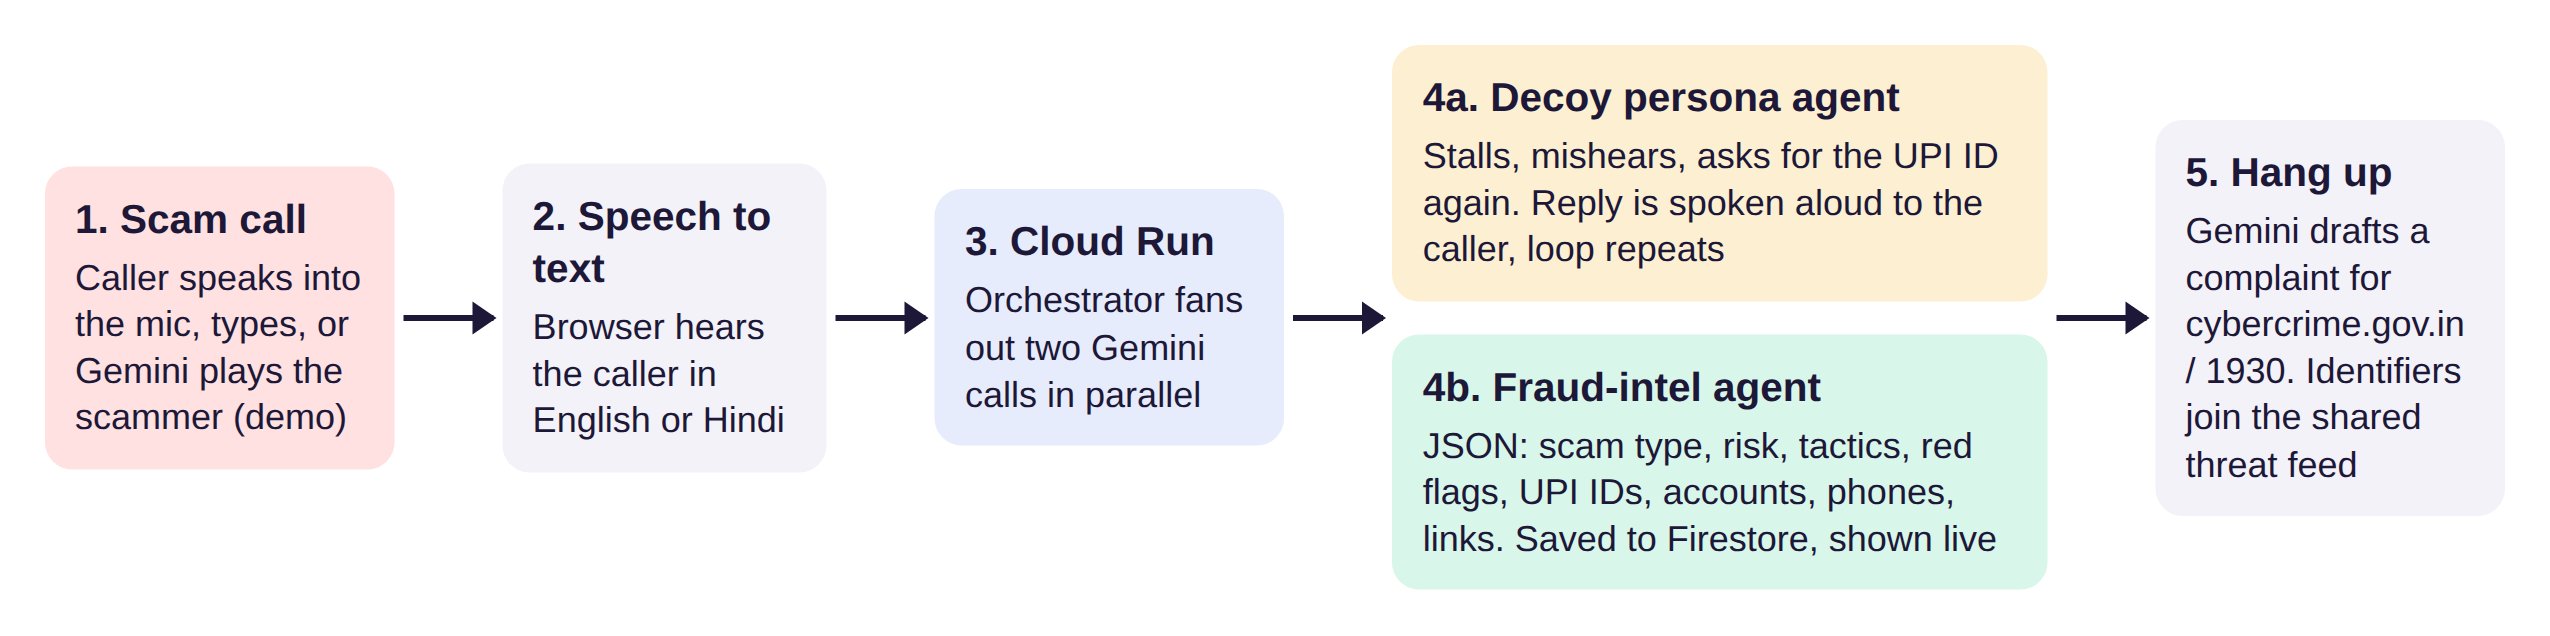
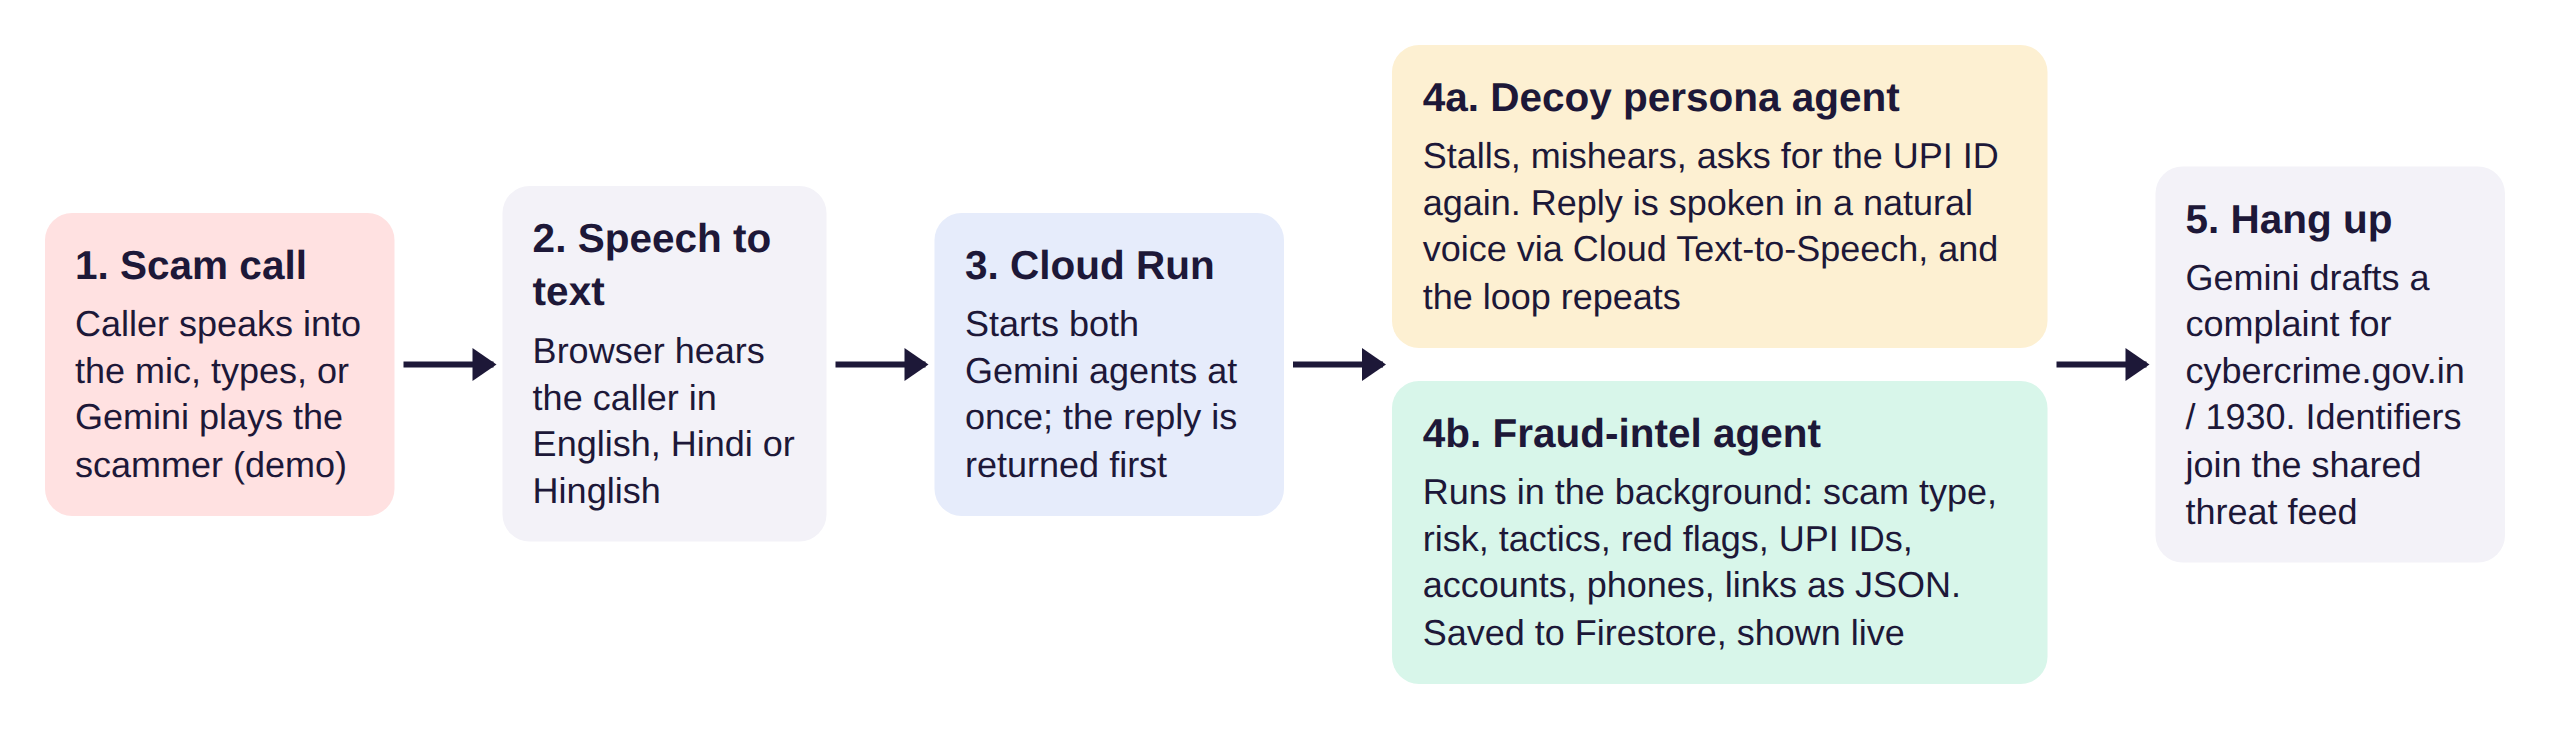
Update README for Vertex AI, natural voices and live demo

diff --git a/README.md b/README.md
@@ -4,109 +4,182 @@
 
 Built for the Google Cloud AI Builder Cup, theme: *BFSI: Intelligent Risk, Fraud & Financial Experiences*.
 
-Phone scams like "digital arrest", fake KYC updates and task-job frauds cost Indian families crores every month, and they
-work because scammers can call thousands of people cheaply. ScamBait flips the economics: every minute a scammer spends
-talking to an AI decoy is a minute they are not talking to a real victim, and everything they reveal (UPI IDs, mule
-accounts, phone numbers, phishing links, scripts) is captured as structured evidence and shared in a public threat feed.
+**Live demo:** https://scambait-deluludevelopers.web.app
 
-## What it does
+![ScamBait live call screen](docs/ui-call.png)
 
-- **AI decoy persona (Gemini).** Kamala Aunty or Mr. Verma answer the call in English, Hindi or Hinglish. They stall,
-  mishear, look for their glasses, and steer the scammer into repeating payment details, all while never revealing
-  anything real.
-- **Live fraud intelligence (Gemini structured output).** On every turn a second Gemini call analyses the caller's words
-  in parallel and returns a typed JSON object: scam type, risk score, impersonated organisation, manipulation tactics,
-  red-flag quotes, and every identifier revealed. A deterministic regex layer backs it up so no UPI ID is missed.
-- **AI vs AI demo mode.** A third Gemini agent plays the scammer from a scripted scenario, so anyone (including judges)
-  can watch a full call with no phone or microphone.
-- **Voice in, voice out.** Browser speech recognition hears the scammer; speech synthesis gives the decoy a voice.
+## The problem
+
+Phone scams such as "digital arrest", fake KYC updates, electricity-disconnection threats and task-based job offers
+target people who panic under pressure, very often the elderly. Scam call centres win on volume: calls are cheap and
+they only need one victim to pay. Existing defences such as caller-ID apps, spam filters and bank SMS alerts are
+passive. They warn or block, and the scammer simply dials the next number.
+
+## Our solution
+
+ScamBait flips the economics. Every minute a scammer spends talking to an AI decoy is a minute they are not talking to
+a real victim, and everything they reveal (UPI IDs, mule accounts, phone numbers, phishing links, names and scripts)
+is captured as structured evidence and shared in a threat feed.
+
+## Features
+
+- **AI decoy personas (Gemini).** Kamala Aunty, a 74-year-old retired teacher, or Mr. Verma, a meticulous retired
+  clerk, answer the call in English, Hindi or Hinglish. They stall, mishear, hunt for their glasses and keep asking
+  the caller to repeat payment details, while never revealing anything real.
+- **Natural voices (Cloud Text-to-Speech).** Chirp 3 HD voices give the decoy and the caller human-sounding speech in
+  Indian English and Hindi, with automatic fallback to Neural2 and then the browser voice.
+- **Live fraud intelligence (Gemini structured output).** On every turn a separate Gemini agent analyses the caller's
+  words against a strict JSON schema: scam type, risk score, impersonated organisation, manipulation tactics,
+  red-flag quotes and every identifier revealed. A deterministic regex layer backs it up so no UPI ID is missed.
+- **AI vs AI demo mode.** A Gemini scammer agent rewrites realistic scam scripts (digital arrest, bank KYC,
+  electricity disconnection, job/task scam) into natural lines that react to what the decoy says, so anyone can watch
+  a full call with no phone or microphone. A refusal guard falls back to the scripted line if the model declines.
+- **Three ways to play the scammer.** Let Gemini do it, speak into the microphone (Web Speech API), or type.
 - **One-click complaint.** When the call ends, Gemini drafts a complaint ready for cybercrime.gov.in or the 1930 helpline.
-- **Shared threat feed (Firestore).** Identifiers from every call are de-duplicated and counted across all users, with
-  stats on scam types, scammer time wasted and AI latency.
+- **Shared threat feed (Firestore).** Identifiers from every call are de-duplicated and counted across all users,
+  alongside calls handled, scammer time wasted, scam-type mix and average AI response time.
+
+![Threat feed](docs/ui-feed.png)
+
+## How it works
+
+![Process flow](docs/flow.png)
+
+1. The caller's line arrives as text (Gemini scammer agent, microphone speech recognition, or typing).
+2. Cloud Run immediately starts two Gemini agents in parallel: the **decoy persona** writes the reply and the
+   **fraud-intel analyst** extracts structured evidence.
+3. The decoy reply is returned as soon as it is ready and spoken with Cloud Text-to-Speech. The analysis is collected
+   separately and fills the evidence panel a moment later, so analysis never delays the conversation.
+4. When the call ends, any pending analysis is awaited, Gemini writes the complaint, and every identifier is upserted
+   into the shared threat feed.
 
 ## Architecture
 
+![Architecture](docs/arch.png)
+
+| Component | Role |
+|---|---|
+| **Gemini 3.8 Flash on Vertex AI** | Four agents via the Google Gen AI SDK: decoy persona, fraud-intel analyst (schema-constrained JSON), scammer simulator, complaint writer |
+| **Cloud Run** | Node.js + Express orchestrator: sessions, parallel agent calls, low thinking level for speed, timeouts and 429 retries, refusal guard, regex safety net, voice proxy, latency tracking |
+| **Cloud Text-to-Speech** | Chirp 3 HD voices per persona (configurable in `prompts.js`), Neural2 fallback |
+| **Firestore** | `sessions` (transcript, intel, complaint), `indicators` (de-duplicated scammer identifiers with sighting counts), `stats` (aggregates via atomic increments) |
+| **Firebase Hosting** | Serves the web app on a global CDN and rewrites `/api/**` to Cloud Run |
+| **Web Speech API** | Speech recognition in the browser (en-IN, hi-IN) for the microphone mode |
+
+Firestore security rules deny all browser access; every read and write goes through the backend. Gemini is called
+with the Cloud Run service account through Vertex AI, so no API key is stored in the app.
+
+## Project structure
+
 ```
-Browser (Firebase Hosting)
-  ├─ static UI, Web Speech API (speech-to-text + text-to-speech)
-  └─ /api/**  ──rewrite──►  Cloud Run service "scambait" (Node.js + Express)
-                              ├─ Gemini (via @google/genai)
-                              │    ├─ Decoy persona agent      (conversation)
-                              │    ├─ Intel analyst agent      (JSON schema output, runs in parallel)
-                              │    ├─ Scammer simulator agent  (demo mode)
-                              │    └─ Complaint writer         (end of call)
-                              └─ Firestore
-                                   ├─ sessions/{id}    transcript, latest intel, report
-                                   ├─ indicators/{id}  de-duplicated scammer identifiers + counts
-                                   └─ stats/global     calls, seconds wasted, scam types, latency
+server.js            Express API, Gemini agents, Text-to-Speech proxy
+prompts.js           Personas, voices, scam scripts and all Gemini prompts
+store.js             Firestore persistence (in-memory fallback for local runs)
+public/              index.html, app.js, style.css (no build step)
+firebase.json        Hosting config and /api rewrite to Cloud Run
+firestore.rules      Locks Firestore to the backend
+Dockerfile           Container for Cloud Run
+docs/                Diagrams and screenshots
 ```
 
 ## Run locally
 
+Requires Node.js 20+ and Chrome or Edge.
+
 ```bash
 npm install
-cp .env.example .env            # add your Gemini API key from https://aistudio.google.com/apikey
-export $(cat .env | xargs)
-USE_MEMORY_STORE=1 npm start    # no Firestore needed locally
-# open http://localhost:8080 in Chrome
 ```
 
-## Deploy (about 15 minutes)
+Create a `.env` file. Either use a Gemini API key from AI Studio:
 
-Prerequisites: `gcloud` and `firebase` CLIs installed, a Google Cloud project with billing, and a Gemini API key.
+```
+GEMINI_API_KEY=your-key
+GEMINI_MODEL=gemini-3.8-flash
+USE_MEMORY_STORE=1
+```
+
+or use Vertex AI with your own Google Cloud login (run `gcloud auth application-default login` first):
+
+```
+GOOGLE_CLOUD_PROJECT=your-project-id
+GOOGLE_CLOUD_LOCATION=global
+GEMINI_MODEL=gemini-3.8-flash
+USE_MEMORY_STORE=1
+```
+
+Then start the server and open http://localhost:8080:
+
+```bash
+node --env-file=.env server.js
+```
+
+`USE_MEMORY_STORE=1` keeps data in memory so you don't need Firestore locally. Natural voices need Google Cloud
+credentials; without them the app falls back to the browser voice.
+
+## Deploy to Google Cloud
+
+Prerequisites: `gcloud` and `firebase` CLIs, and a Google Cloud project with billing enabled.
 
 ```bash
 export PROJECT_ID=your-project-id
 export REGION=asia-south1
-export GEMINI_API_KEY=your-key
-
 gcloud config set project $PROJECT_ID
-gcloud services enable run.googleapis.com cloudbuild.googleapis.com artifactregistry.googleapis.com firestore.googleapis.com
 
-# 1. Firestore (Native mode)
+# 1. Enable services
+gcloud services enable run.googleapis.com cloudbuild.googleapis.com artifactregistry.googleapis.com \
+  firestore.googleapis.com aiplatform.googleapis.com texttospeech.googleapis.com
+
+# 2. Firestore (Native mode)
 gcloud firestore databases create --location=$REGION
 
-# 2. Let the Cloud Run service account use Firestore
+# 3. Permissions for the Cloud Run service account
 PROJECT_NUMBER=$(gcloud projects describe $PROJECT_ID --format='value(projectNumber)')
-gcloud projects add-iam-policy-binding $PROJECT_ID \
-  --member="serviceAccount:${PROJECT_NUMBER}-compute@developer.gserviceaccount.com" \
-  --role="roles/datastore.user"
+SA="serviceAccount:${PROJECT_NUMBER}-compute@developer.gserviceaccount.com"
+gcloud projects add-iam-policy-binding $PROJECT_ID --member="$SA" --role="roles/datastore.user"
+gcloud projects add-iam-policy-binding $PROJECT_ID --member="$SA" --role="roles/aiplatform.user"
 
-# 3. Cloud Run
-gcloud run deploy scambait --source . --region $REGION --allow-unauthenticated \
-  --set-env-vars GEMINI_API_KEY=$GEMINI_API_KEY,GEMINI_MODEL=gemini-2.5-flash \
-  --min-instances 1
+# 4. Cloud Run
+gcloud run deploy scambait --source . --region $REGION --allow-unauthenticated --min-instances 1 \
+  --set-env-vars GOOGLE_CLOUD_PROJECT=$PROJECT_ID,GOOGLE_CLOUD_LOCATION=global,GEMINI_MODEL=gemini-3.8-flash,GEMINI_THINKING=low
 
-# 4. Firebase Hosting + Firestore rules
-firebase login
-firebase use --add $PROJECT_ID        # or edit .firebaserc
+# 5. Firebase Hosting + Firestore rules (set your project ID in .firebaserc first)
 firebase deploy --only hosting,firestore
 ```
 
-Your public link is `https://$PROJECT_ID.web.app`. The Cloud Run URL also serves the full app on its own.
-`--min-instances 1` avoids cold starts while judges are testing.
+The app is then live at `https://$PROJECT_ID.web.app`. On Windows Command Prompt, use `set NAME=value` and `%NAME%`,
+and put each command on one line.
 
-**Tip:** if Gemini returns a "model not found" error, set `GEMINI_MODEL` to the current Flash model listed in AI Studio
-and redeploy with `gcloud run services update scambait --region $REGION --update-env-vars GEMINI_MODEL=...`.
+### Configuration
 
-## Using it
+| Variable | Purpose |
+|---|---|
+| `GEMINI_MODEL` | Gemini model ID (default `gemini-3.8-flash`) |
+| `GEMINI_THINKING` | Thinking level for faster replies (default `low`; falls back automatically if unsupported) |
+| `GOOGLE_CLOUD_PROJECT`, `GOOGLE_CLOUD_LOCATION` | Use Gemini through Vertex AI with the service account |
+| `GEMINI_API_KEY` | Alternative: use a Gemini API key instead of Vertex AI |
+| `USE_MEMORY_STORE` | `1` to run without Firestore |
 
-Open the link in Chrome or Edge.
-- **Gemini (AI vs AI demo):** pick a scam script and press *Answer the call*. Sit back.
-- **Me, speaking:** allow the microphone and play the scammer yourself.
-- **Me, typing:** type the scammer's lines.
+## Using the demo
 
-Press *Hang up and file report* to get the complaint draft, then open *Threat feed*.
+1. Open the live link in Chrome or Edge and keep **Play voices** ticked.
+2. Under *Who plays the scammer?* choose **Gemini (AI vs AI demo)**, pick a scam script and press **Answer the call**.
+3. Watch the evidence panel fill in as Kamala Aunty coaxes out the scammer's UPI ID and phone number.
+4. Press **Hang up and file report** to see the complaint draft, then open **Threat feed**.
+
+To play the scammer yourself, choose **Me, speaking** (allow the microphone) or **Me, typing**.
 
 ## Safety and ethics
 
-The decoy never shares real data and never completes a payment. Firestore is locked to the backend only. The demo
-scammer agent produces fictional identifiers. In a production rollout ScamBait would sit behind telecom call forwarding
-or a "forward suspicious call" button, and identifiers would be verified before being shared with banks.
+The decoy never shares real data and never completes a payment. The scammer simulator only produces fictional
+identifiers and exists for demonstration and awareness training. Firestore is locked to the backend. In production,
+ScamBait would sit behind telecom call forwarding or a "forward suspicious call" button, and identifiers would be
+verified before being shared with banks or law enforcement.
 
 ## Roadmap
 
-- Real phone-number integration (call forwarding through a telephony provider) and Gemini Live API for full-duplex audio.
-- More Indian languages (Tamil, Telugu, Kannada, Bengali, Marathi).
-- Bank and NPCI integrations to flag mule UPI IDs in near real time.
-- Voice-pattern clustering to link calls from the same scam centre.
+- Real phone lines through call forwarding, with the Gemini Live API for full-duplex, interruptible audio.
+- More Indian languages: Tamil, Telugu, Kannada, Bengali and Marathi personas.
+- Bank and NPCI integration to flag mule UPI IDs and accounts in near real time.
+- Clustering calls by script, identifiers and voice patterns to map organised scam networks.
+- Family safety mode: elderly users forward a suspicious call with one tap and family members receive the report.
+- Awareness training that uses the scammer simulator to let people practise spotting scams safely.
